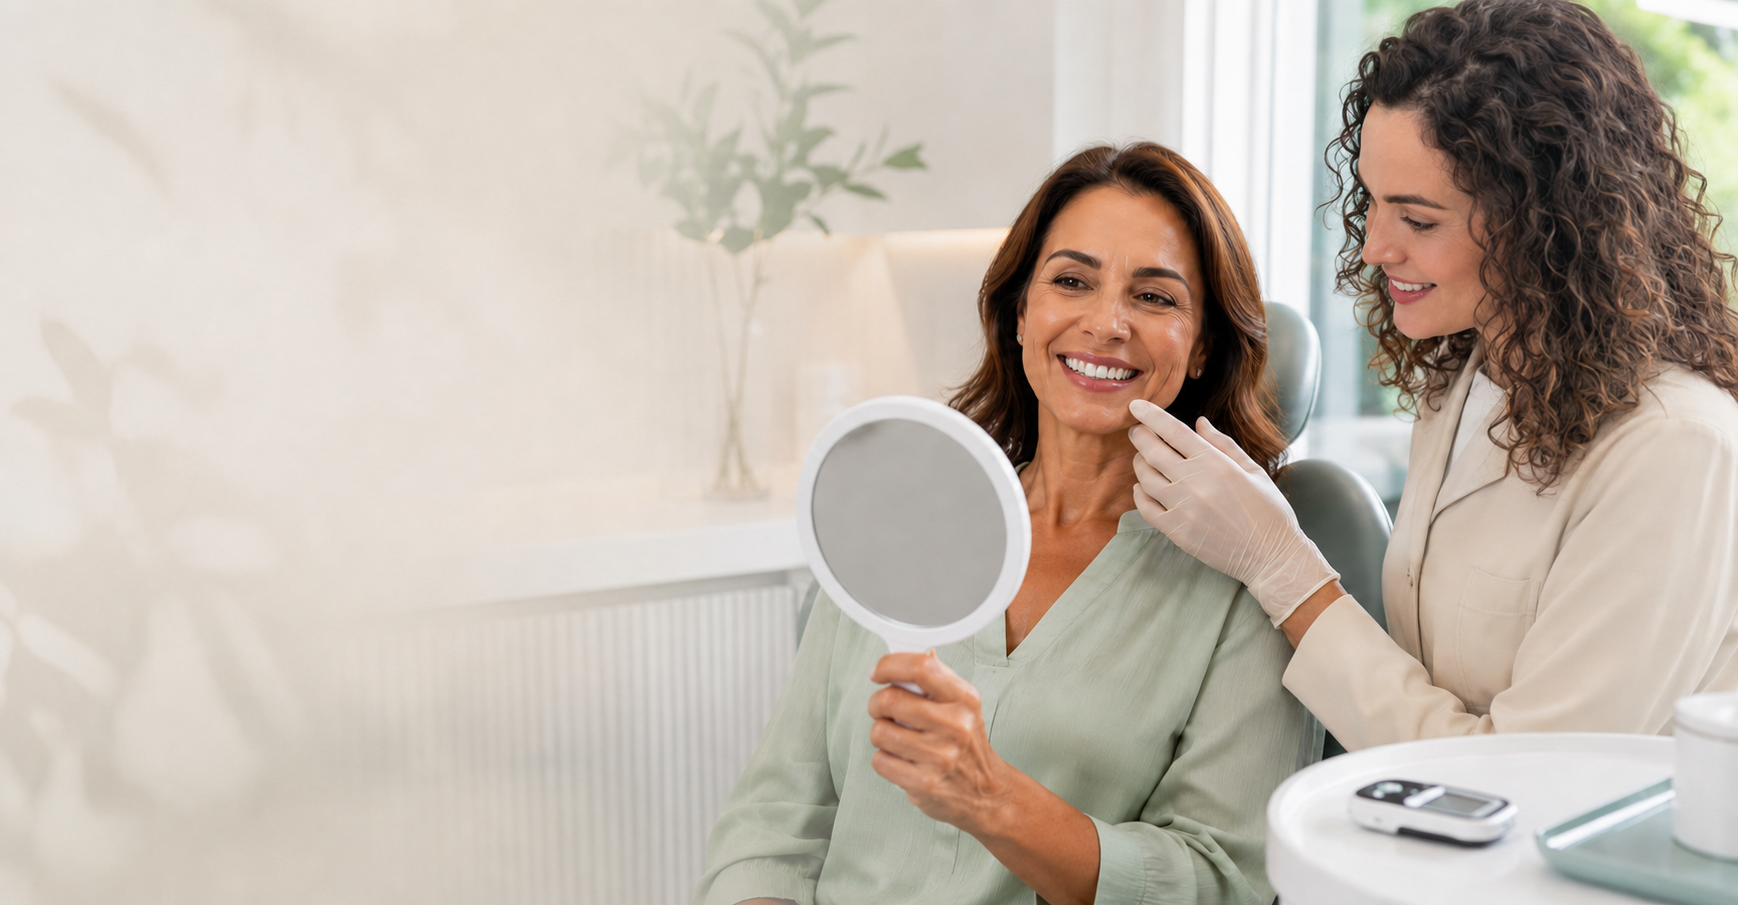
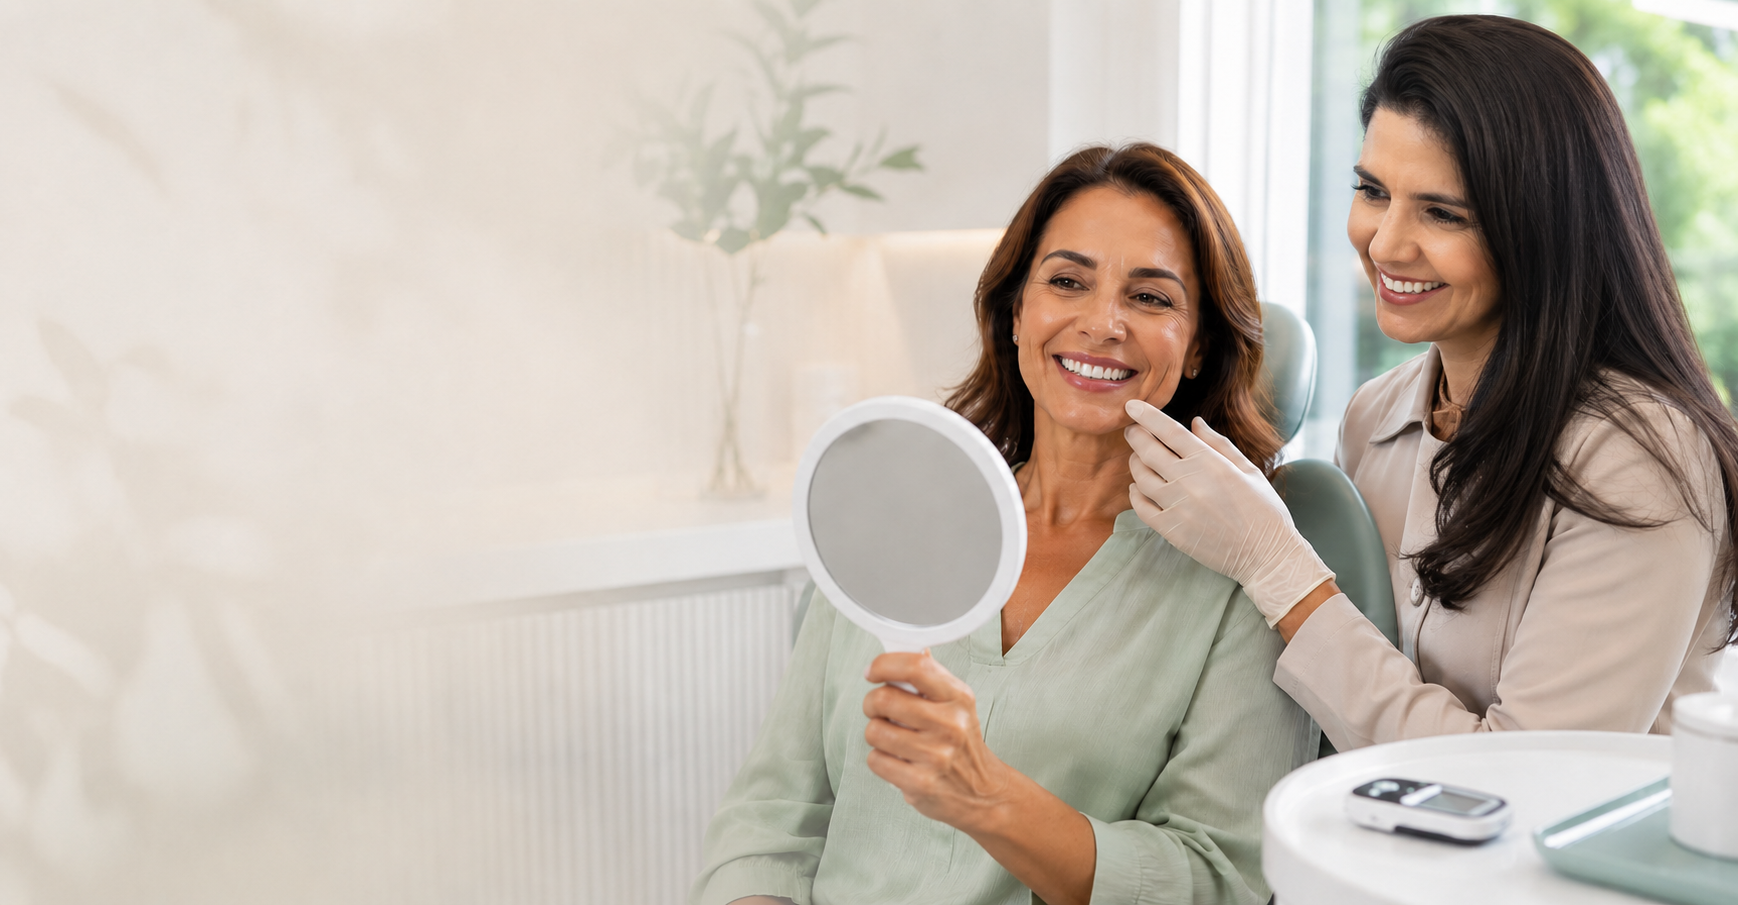
update hero image framing

diff --git a/app/globals.css b/app/globals.css
@@ -683,7 +683,7 @@ footer { background: var(--forest-deep); padding: 75px max(32px, calc((100vw - v
   overflow: hidden;
   background: var(--paper);
 }
-.hero-background { position: absolute; z-index: -2; inset: 0; width: 100%; height: 100%; object-fit: cover; object-position: center center; }
+.hero-background { position: absolute; z-index: -2; inset: 0; width: 100%; height: 100%; object-fit: cover; object-position: 50% 48%; }
 .hero::before {
   content: "";
   position: absolute;
@@ -846,7 +846,7 @@ footer { background: var(--forest-deep); padding: 75px max(32px, calc((100vw - v
 
 @media (max-width: 1050px) {
   .hero { min-height: 800px; display: block; padding-inline: 32px; }
-  .hero-background { object-position: 45% center; }
+  .hero-background { object-position: 48% center; }
   .hero-copy { max-width: 620px; }
   .hero h1 { max-width: 620px; font-size: clamp(3.35rem, 6.6vw, 4.35rem); }
 }
@@ -870,7 +870,7 @@ footer { background: var(--forest-deep); padding: 75px max(32px, calc((100vw - v
     min-height: 760px;
     padding: 104px 19px 76px;
   }
-  .hero-background { object-position: 45% center; }
+  .hero-background { object-position: 62% center; }
   .hero::before { background: linear-gradient(180deg, rgba(247, 244, 238, .98) 0%, rgba(247, 244, 238, .9) 48%, rgba(247, 244, 238, .45) 76%, rgba(247, 244, 238, .12) 100%); }
   .hero::after { height: 35%; }
   .hero-copy { max-width: 100%; }
